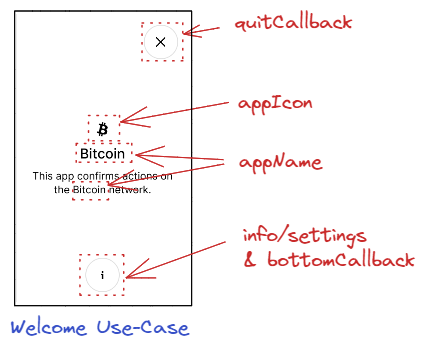
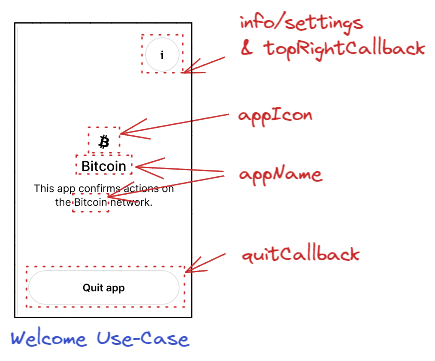
Fix FWEO-575 - App home improvements

diff --git a/lib_nbgl/src/nbgl_use_case.c b/lib_nbgl/src/nbgl_use_case.c
@@ -474,11 +474,11 @@ static uint8_t getNbPagesForTagValueList(nbgl_layoutTagValueList_t *tagValueList
  * @param appIcon app icon
  * @param tagline text under app name (if NULL, it will be "This app confirms actions on the <appName> network.")
  * @param withSettings if true, use a "settings" (wheel) icon in bottom button, otherwise a "info" (i)
- * @param bottomCallback callback called when bottom button is pressed
+ * @param topRightCallback callback called when top-right button is pressed
  * @param quitCallback callback called when quit button is pressed
  */
 void nbgl_useCaseHome(char *appName, const nbgl_icon_details_t *appIcon, char *tagline, bool withSettings,
-                      nbgl_callback_t bottomCallback, nbgl_callback_t quitCallback) {
+                      nbgl_callback_t topRightCallback, nbgl_callback_t quitCallback) {
   nbgl_pageInfoDescription_t info = {
     .centeredInfo.icon = appIcon,
     .centeredInfo.text1 = appName,
@@ -486,11 +486,11 @@ void nbgl_useCaseHome(char *appName, const nbgl_icon_details_t *appIcon, char *t
     .centeredInfo.style = LARGE_CASE_INFO,
     .centeredInfo.offsetY = 32,
     .footerText = NULL,
-    .bottomButtonStyle = withSettings? SETTINGS_ICON:INFO_ICON,
-    .bottomButtonToken = CONTINUE_TOKEN,
+    .bottomButtonStyle = QUIT_APP_TEXT,
+    .bottomButtonToken = QUIT_TOKEN,
     .tapActionText = NULL,
-    .topRightStyle = QUIT_ICON,
-    .topRightToken = QUIT_TOKEN,
+    .topRightStyle = withSettings? SETTINGS_ICON:INFO_ICON,
+    .topRightToken = CONTINUE_TOKEN,
     .tuneId = TUNE_TAP_CASUAL
   };
   if (tagline == NULL) {
@@ -501,7 +501,7 @@ void nbgl_useCaseHome(char *appName, const nbgl_icon_details_t *appIcon, char *t
     info.centeredInfo.text2 = tagline;
   }
 
-  onContinue = bottomCallback;
+  onContinue = topRightCallback;
   onQuit = quitCallback;
   pageContext = nbgl_pageDrawInfo(&pageCallback, NULL, &info);
   nbgl_refresh();

diff --git a/lib_nbgl/src/nbgl_page.c b/lib_nbgl/src/nbgl_page.c
@@ -291,7 +291,19 @@ nbgl_page_t* nbgl_pageDrawInfo(nbgl_layoutTouchCallback_t onActionCallback, nbgl
       return NULL;
     nbgl_layoutAddTopRightButton(layout, PIC(icon), info->topRightToken, info->tuneId);
   }
-  if (info->bottomButtonStyle != NO_BUTTON_STYLE) {
+  if (info->bottomButtonStyle == QUIT_APP_TEXT) {
+    nbgl_layoutButton_t buttonInfo = {
+      .fittingContent = false,
+      .icon = NULL,
+      .onBottom = true,
+      .style = WHITE_BACKGROUND,
+      .text  = "Quit app",
+      .token = info->bottomButtonToken,
+      .tuneId = info->tuneId
+    };
+    nbgl_layoutAddButton(layout,&buttonInfo);
+  }
+  else if (info->bottomButtonStyle != NO_BUTTON_STYLE) {
     const nbgl_icon_details_t *icon;
     if (info->bottomButtonStyle == SETTINGS_ICON)
       icon = &C_wheel32px;
@@ -472,7 +484,7 @@ nbgl_page_t* nbgl_pageDrawGenericContentExt(nbgl_layoutTouchCallback_t onActionC
         .nbPages = nav->nbPages,
         .token = nav->navWithButtons.navToken,
         .withExitKey = nav->navWithButtons.quitButton,
-        .withSeparationLine = false,
+        .withSeparationLine = true,
         .tuneId = nav->tuneId
       };
       nbgl_layoutAddNavigationBar(layout,&navInfo);

diff --git a/lib_nbgl/include/nbgl_layout.h b/lib_nbgl/include/nbgl_layout.h
@@ -151,7 +151,7 @@ typedef enum  {
     LARGE_CASE_INFO, ///< text in BLACK and large case (INTER 32px), subText in black in Inter24px
     LARGE_CASE_BOLD_INFO, ///< text in BLACK and large case (INTER 32px), subText in black bold Inter24px, text3 in black Inter24px
     LEDGER_INFO, ///< only text, in BLACK and upper case (HM ALPHA MONO), with Ledger border
-    NORMAL_INFO ///< Icon in black, a possible text in black under it, and a possible text in dark gray under it
+    NORMAL_INFO ///< Icon in black, a potential text in black bold 24px under it, a potential text in dark gray (24px) under it, a potential text in black (24px) under it
 } nbgl_centeredInfoStyle_t;
 
 /**

diff --git a/lib_nbgl/include/nbgl_use_case.h b/lib_nbgl/include/nbgl_use_case.h
@@ -56,7 +56,7 @@ typedef void (*nbgl_choiceCallback_t)(bool confirm);
  * GLOBAL PROTOTYPES
  **********************/
 void nbgl_useCaseHome(char *appName, const nbgl_icon_details_t *appIcon, char *tagline, bool withSettings,
-                      nbgl_callback_t bottomCallback, nbgl_callback_t quitCallback);
+                      nbgl_callback_t topRightCallback, nbgl_callback_t quitCallback);
 void nbgl_useCaseSettings(char *settingsTitle, uint8_t initPage, uint8_t nbPages, bool touchableTitle,
                           nbgl_callback_t quitCallback, nbgl_navCallback_t navCallback,
                           nbgl_layoutTouchCallback_t controlsCallback);

diff --git a/lib_nbgl/include/nbgl_page.h b/lib_nbgl/include/nbgl_page.h
@@ -28,14 +28,15 @@ extern "C" {
  **********************/
 
 /**
- * @brief The different types of top-right icon
+ * @brief The different types of top-right / bottom button
  *
  */
 typedef enum {
     NO_BUTTON_STYLE=0, ///< no button.
     SETTINGS_ICON, ///< settings (wheel) icon in the button.
     QUIT_ICON, ///< quit (X) icon in the button.
-    INFO_ICON ///< info (i) icon in the button.
+    INFO_ICON, ///< info (i) icon in the button.
+    QUIT_APP_TEXT ///< A full width button with "Quit app" text (only for bottom button)
 } nbgl_pageButtonStyle_t;
 
 /**

diff --git a/lib_nbgl/src/nbgl_layout.c b/lib_nbgl/src/nbgl_layout.c
@@ -1072,7 +1072,7 @@ int nbgl_layoutAddCenteredInfo(nbgl_layout_t *layout, nbgl_layoutCenteredInfo_t 
       textArea->fontId = BAGL_FONT_INTER_REGULAR_32px;
     }
     else {
-      textArea->fontId = BAGL_FONT_INTER_REGULAR_24px;
+      textArea->fontId = BAGL_FONT_INTER_SEMIBOLD_24px;
     }
     textArea->width = GET_AVAILABLE_WIDTH(layoutInt);
     textArea->height = nbgl_getTextHeightInWidth(textArea->fontId,textArea->text,textArea->width);
